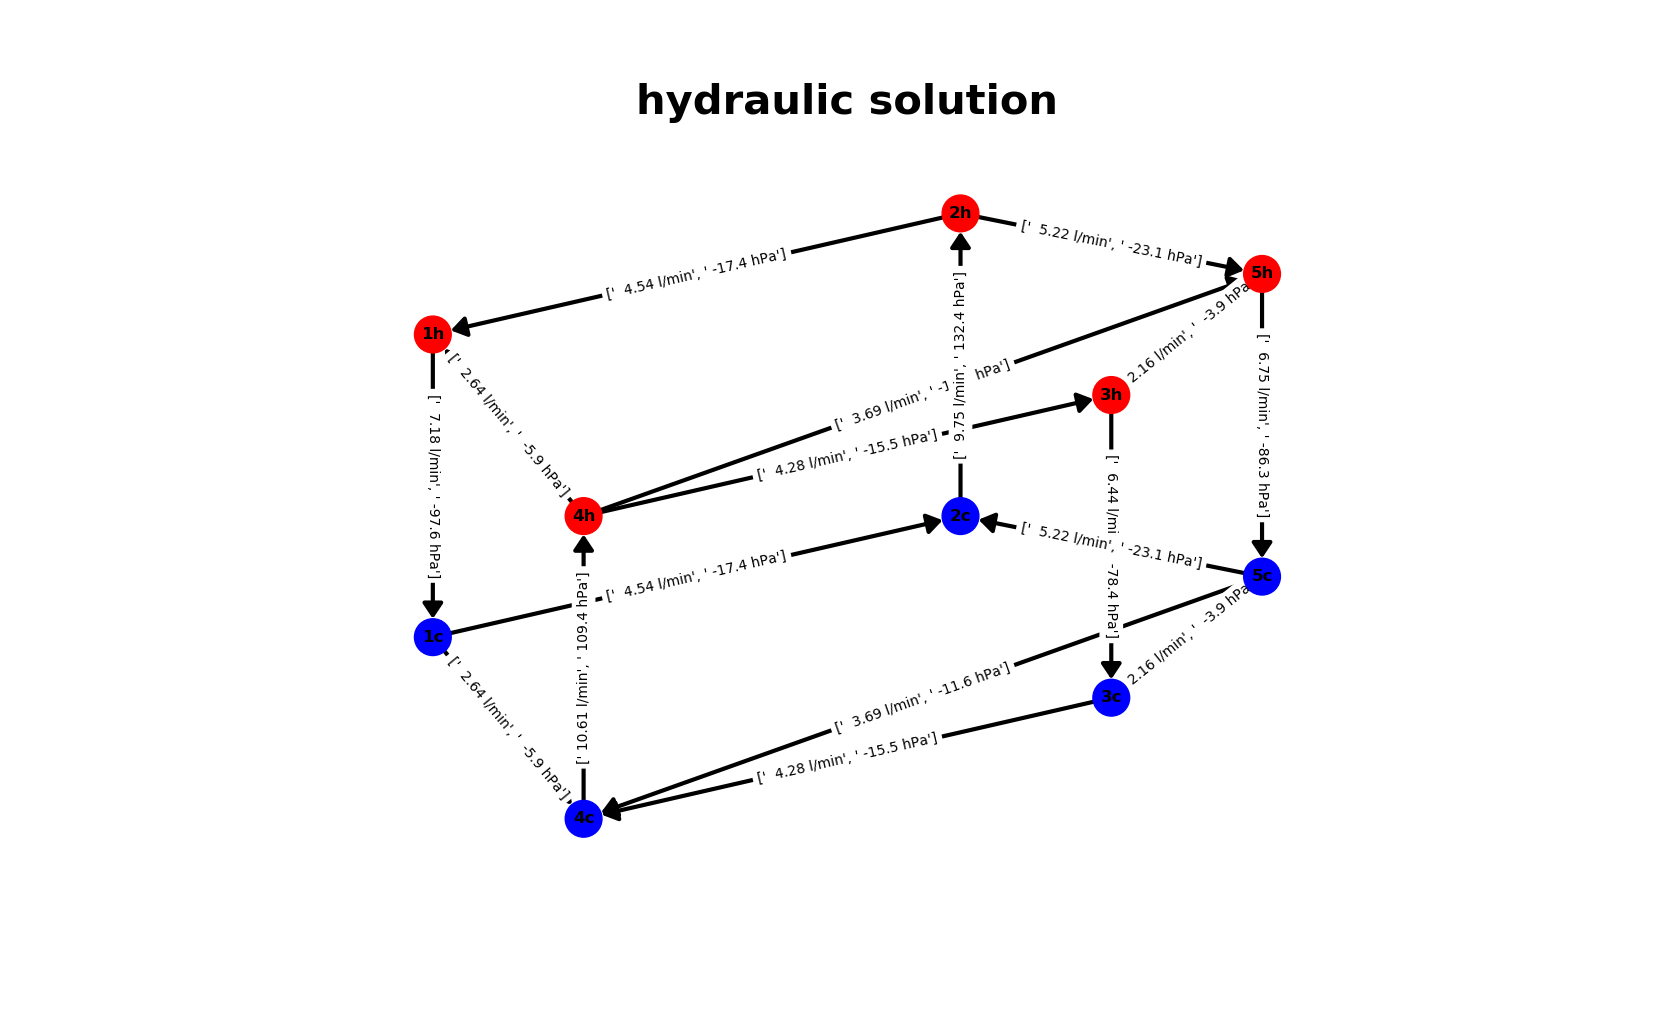
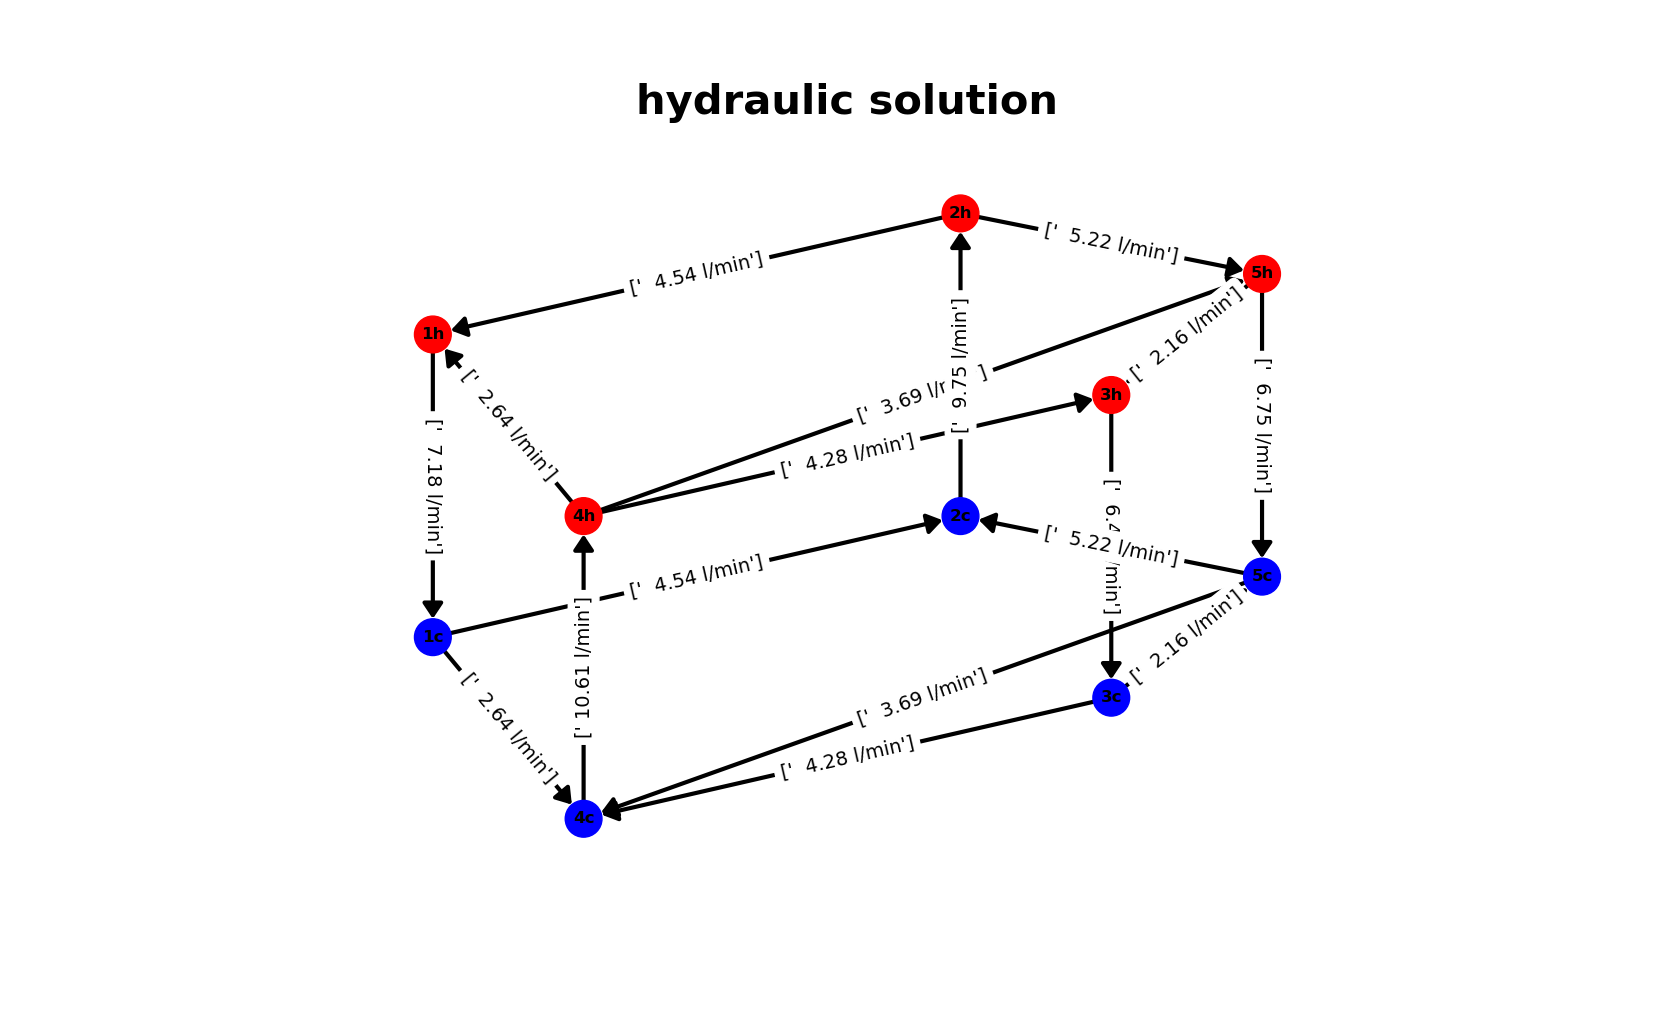
improved visualization output

diff --git a/G_visualization.py b/G_visualization.py
@@ -225,7 +225,7 @@ def visualize_scenario(setup, graph, solutions):
         
         plt.savefig(''.join((savepath, 'vis_scenario.', saveformat)), format = saveformat)
     
-def visualize_hy_solution(setup, graph, solutions, withsymbols=False, withnumbers = True):
+def visualize_hy_solution(setup, graph, solutions, withsymbols=False, withnumbers = True, data = 'flow'):
     savepath = './figs/'
     saveformat = 'png' # jpg, png, eps, svgd
     
@@ -255,22 +255,38 @@ def visualize_hy_solution(setup, graph, solutions, withsymbols=False, withnumber
             graph.Gsol_hy.edges[(edge[1],edge[0])]['dotV']=-dotV_soldict[(edge[0],edge[1])]
             graph.Gsol_hy.edges[(edge[1],edge[0])]['Deltap']=-Deltap_soldict[(edge[0],edge[1])]
             myedgelabels[(edge[1],edge[0])]=[]
-            myedgelabels[(edge[1],edge[0])].append('{0:6.2f} l/min'.format(-dotV_soldict[(edge[0],edge[1])]))
-            myedgelabels[(edge[1],edge[0])].append('{0:6.1f} hPa'.format(-Deltap_soldict[(edge[0],edge[1])]))
+            if data == 'flow':
+                myedgelabels[(edge[1],edge[0])].append('{0:6.2f} l/min'.format(-dotV_soldict[(edge[0],edge[1])]))
+            elif data == 'pressure':
+                myedgelabels[(edge[1],edge[0])].append('{0:6.1f} hPa'.format(-Deltap_soldict[(edge[0],edge[1])]))
+            elif data == 'both':
+                myedgelabels[(edge[1],edge[0])].append('{0:6.2f} l/min'.format(-dotV_soldict[(edge[0],edge[1])]))
+                myedgelabels[(edge[1],edge[0])].append('{0:6.1f} hPa'.format(-Deltap_soldict[(edge[0],edge[1])]))
+            
         elif np.sign(dotV_soldict[edge])==1:
             graph.Gsol_hy.add_edge(edge[0],edge[1])
             graph.Gsol_hy.edges[(edge[0],edge[1])]['dotV']=dotV_soldict[(edge[0],edge[1])]
             graph.Gsol_hy.edges[(edge[0],edge[1])]['Deltap']=Deltap_soldict[(edge[0],edge[1])]
             myedgelabels[(edge[0],edge[1])]=[]
-            myedgelabels[(edge[0],edge[1])].append('{0:6.2f} l/min'.format(dotV_soldict[(edge[0],edge[1])]))
-            myedgelabels[(edge[0],edge[1])].append('{0:6.1f} hPa'.format(Deltap_soldict[(edge[0],edge[1])]))
+            if data == 'flow':
+                myedgelabels[(edge[0],edge[1])].append('{0:6.2f} l/min'.format(dotV_soldict[(edge[0],edge[1])]))
+            elif data == 'pressure':
+                myedgelabels[(edge[0],edge[1])].append('{0:6.1f} hPa'.format(Deltap_soldict[(edge[0],edge[1])]))
+            elif data == 'both':
+                myedgelabels[(edge[0],edge[1])].append('{0:6.2f} l/min'.format(dotV_soldict[(edge[0],edge[1])]))
+                myedgelabels[(edge[0],edge[1])].append('{0:6.1f} hPa'.format(Deltap_soldict[(edge[0],edge[1])]))
         elif np.sign(dotV_soldict[edge])==0:
             graph.Gsol_hy.add_edge(edge[0],edge[1])
             graph.Gsol_hy.edges[(edge[0],edge[1])]['dotV']=dotV_soldict[(edge[0],edge[1])]
             graph.Gsol_hy.edges[(edge[0],edge[1])]['Deltap']=Deltap_soldict[(edge[0],edge[1])]
             myedgelabels[(edge[0],edge[1])]=[]
-            myedgelabels[(edge[0],edge[1])].append('{0:6.2f} l/min'.format(dotV_soldict[(edge[0],edge[1])]))
-            myedgelabels[(edge[0],edge[1])].append('{0:6.1f} hPa'.format(Deltap_soldict[(edge[0],edge[1])]))
+            if data == 'flow':
+                myedgelabels[(edge[0],edge[1])].append('{0:6.2f} l/min'.format(dotV_soldict[(edge[0],edge[1])]))
+            elif data == 'pressure':
+                myedgelabels[(edge[0],edge[1])].append('{0:6.1f} hPa'.format(Deltap_soldict[(edge[0],edge[1])]))
+            elif data == 'both':
+                myedgelabels[(edge[0],edge[1])].append('{0:6.2f} l/min'.format(dotV_soldict[(edge[0],edge[1])]))
+                myedgelabels[(edge[0],edge[1])].append('{0:6.1f} hPa'.format(Deltap_soldict[(edge[0],edge[1])]))
         else:
             raise ValueError('')
     
@@ -392,7 +408,7 @@ def visualize_hy_solution(setup, graph, solutions, withsymbols=False, withnumber
     if withnumbers == True:
         nx.drawing.nx_pylab.draw_networkx_edge_labels(graph.Gsol_hy, 
                              pos=setup.coordinates,
-                             fontsize = 20,
+                             font_size = 14,
                              edge_labels = myedgelabels, node_color = colorslist,
                              arrowsize=15, arrowstyle=myarrowstyle,
                              node_size=700, width=3,
@@ -526,11 +542,11 @@ def visualize_th_solution(setup, graph, solutions, th_problem, withsymbols = Fal
                     inv1=plt.gca().transData.inverted()
                     inv2=plt.gca().transAxes.inverted()
                                                                             
-                    dotm_sec_str = r'$\dot{m}_{sec} = %4.2f \frac{kg}{min}$' % (dotV_sec_dict[PSM])
+                    dotm_sec_str = r'$\dot{V}_{sec} = %4.2f \frac{kg}{min}$' % (dotV_sec_dict[PSM])
                     T_sec_in_str = r'$T_{sec,in} = %5.1f ^\circ C$' % (T_sec_dict[PSM]-273.15)
                     T_sec_out_str = r'$T_{sec,out} = %5.1f ^\circ C$' % (T_soldict[Edges_Temps_dict[PSM]['T_out_PSM']]-273.15)
                     Q_sec_str = r'$\dot{Q}_{sec} = %4.2f kW $' % (Q_soldict[PSM])
-                    dotm_prim_str = r'$\dot{m}_{prim} = %4.2f \frac{kg}{min}$' % (Edges_Temps_dict[PSM]['dotV_HTNW'])
+                    dotm_prim_str = r'$\dot{V}_{prim} = %4.2f \frac{kg}{min}$' % (Edges_Temps_dict[PSM]['dotV_HTNW'])
                     T_prim_in_str = r'$T_{prim,in} = %5.1f ^\circ C$' % (T_soldict[Edges_Temps_dict[PSM]['T_in_HTNW']]-273.15)
                     T_prim_out_str = r'$T_{prim,out} = %5.1f ^\circ C$' % (T_soldict[Edges_Temps_dict[PSM]['T_out_HTNW']]-273.15)
                     
@@ -577,7 +593,7 @@ def visualize_th_solution(setup, graph, solutions, th_problem, withsymbols = Fal
     if withnumbers == True:
         nx.drawing.nx_pylab.draw_networkx_edge_labels(graph.Gsol_th, 
                             pos=setup.coordinates,
-                            fontsize = 20,
+                            font_size = 15,
                             edge_labels = myedgelabels, node_color = colorslist,
                             arrowsize=15, arrowstyle=myarrowstyle,
                             node_size=700, width=3,

diff --git a/A_main.py b/A_main.py
@@ -95,7 +95,7 @@ vis.visualize_graph(mysetup, mygraph, mysolutions)
 vis.visualize_scenario(mysetup, mygraph, mysolutions)
 
 # hydraulic solution
-vis.visualize_hy_solution(mysetup, mygraph, mysolutions, withsymbols = False, withnumbers = True)
+vis.visualize_hy_solution(mysetup, mygraph, mysolutions, withsymbols = False, withnumbers = True, data = 'flow')
 
 # thermal solution
 vis.visualize_th_solution(mysetup, mygraph, mysolutions, th_model, withsymbols = False, withnumbers = True)
